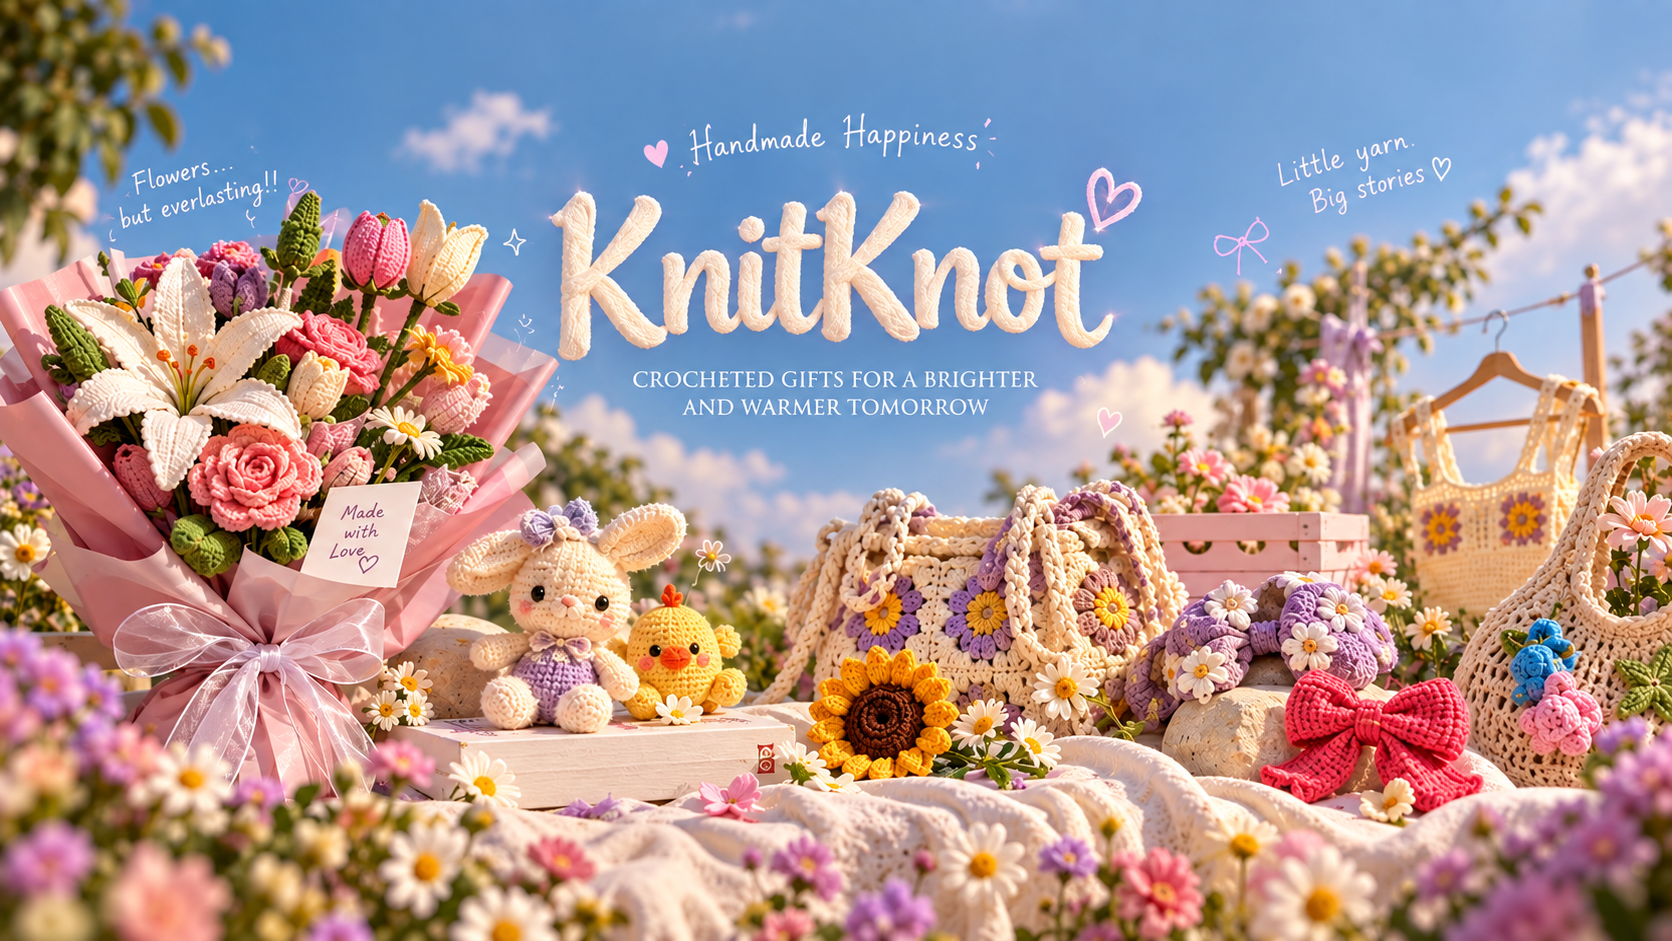
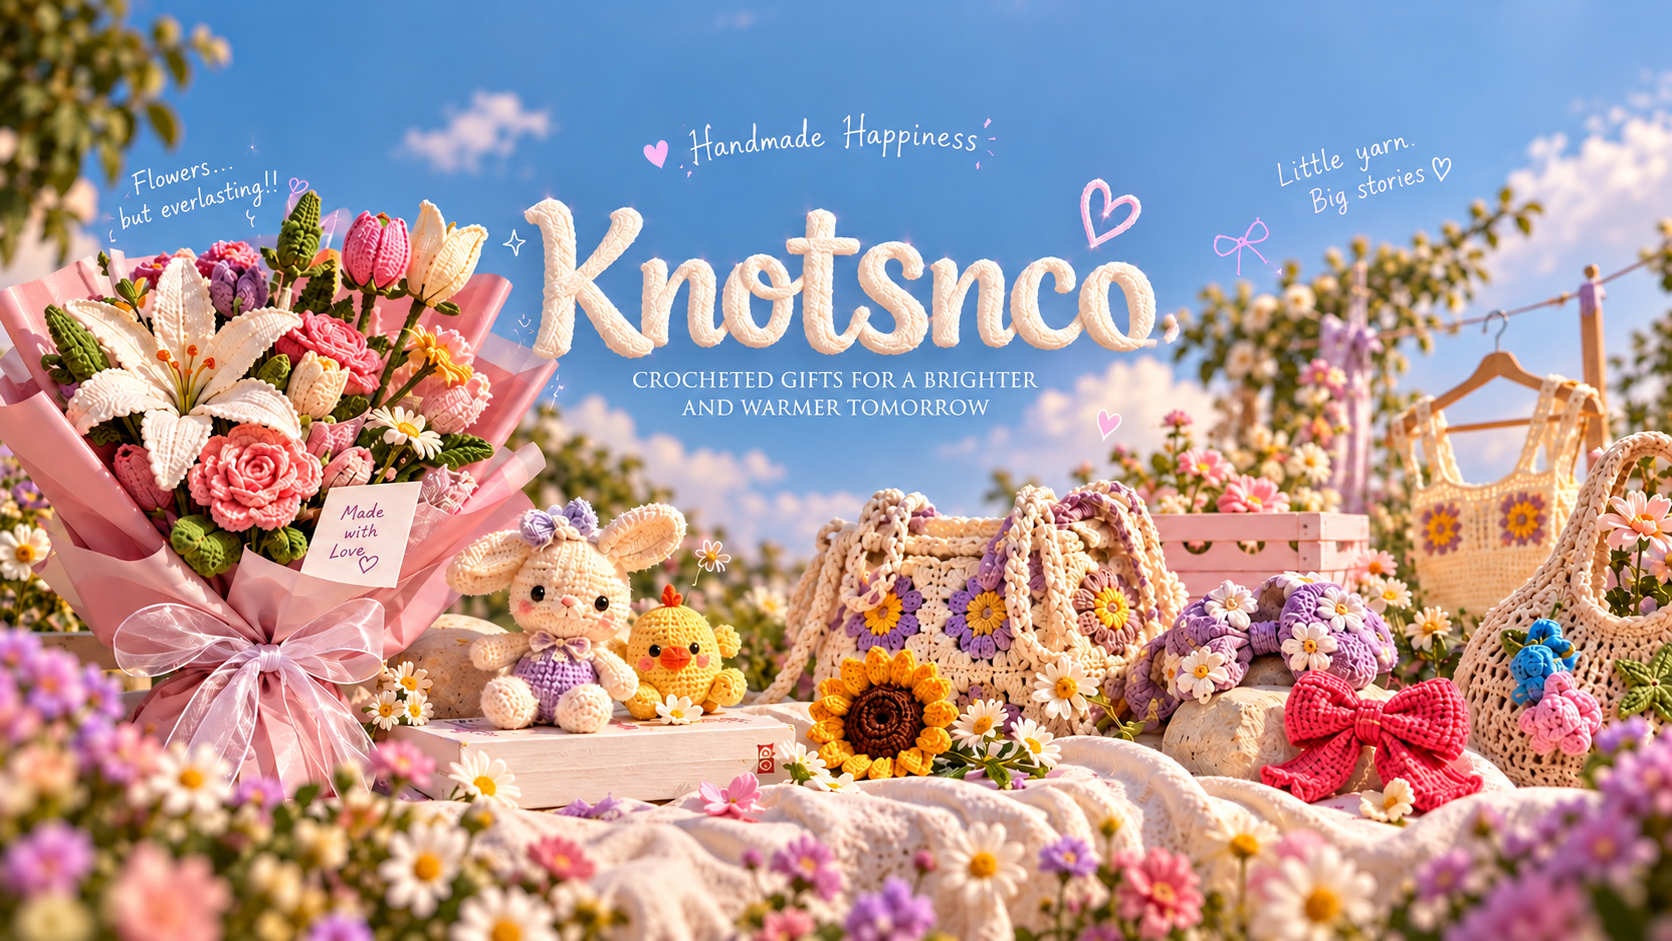
feat(branding): update brand name to Knotsnco and apply new landing page artwork

diff --git a/src/components/Footer.tsx b/src/components/Footer.tsx
@@ -32,7 +32,7 @@ export const Footer: React.FC<FooterProps> = ({ onSelectCategory }) => {
               className="text-[#4a044e] font-serif text-2xl sm:text-4xl md:text-5xl font-medium tracking-tight leading-[1.2] mb-3 sm:mb-4"
               style={{ fontFamily: "'Playfair Display', Georgia, serif" }}
             >
-              Level Up Your World with KnitKnot
+              Level Up Your World with Knotsnco
             </h3>
             <p className="text-[#5e1f66] text-xs sm:text-sm leading-relaxed max-w-md mb-6 sm:mb-8 font-medium">
               Subscribe to our newsletter for news, exclusive offers, and community events. Don't miss updates!
@@ -42,7 +42,7 @@ export const Footer: React.FC<FooterProps> = ({ onSelectCategory }) => {
             {subscribed ? (
               <div className="p-3 sm:p-3.5 rounded-2xl bg-white/70 border border-purple-300 text-[#4a044e] text-xs sm:text-sm font-semibold flex items-center gap-2 max-w-md shadow-sm">
                 <Check className="w-4 h-4 text-emerald-600 shrink-0" />
-                <span>Thank you! Welcome to the KnitKnot family.</span>
+                <span>Thank you! Welcome to the Knotsnco family.</span>
               </div>
             ) : (
               <form onSubmit={handleSubscribe} className="relative max-w-md w-full">
@@ -137,7 +137,7 @@ export const Footer: React.FC<FooterProps> = ({ onSelectCategory }) => {
 
         </div>
 
-        {/* Bottom Giant Brand Typography Spanning Full Width (White KnitKnot©) */}
+        {/* Bottom Giant Brand Typography Spanning Full Width (White Knotsnco©) */}
         <div className="w-full pt-6 sm:pt-8 border-t border-[#4a044e]/15 flex items-center justify-between overflow-hidden">
           <div className="w-full overflow-hidden">
             <h1 
@@ -147,7 +147,7 @@ export const Footer: React.FC<FooterProps> = ({ onSelectCategory }) => {
                 fontSize: 'clamp(2.35rem, 13vw, 17.5rem)',
               }}
             >
-              KnitKnot©
+              Knotsnco©
             </h1>
           </div>
         </div>

diff --git a/src/components/AccountModal.tsx b/src/components/AccountModal.tsx
@@ -31,7 +31,7 @@ export const AccountModal: React.FC<AccountModalProps> = ({ isOpen, onClose }) =
             <div className="w-8 h-8 rounded-full bg-purple-500/20 flex items-center justify-center text-pink-300">
               <User className="w-4 h-4" />
             </div>
-            <h3 className="text-base sm:text-lg font-bold">KnitKnot VIP Club</h3>
+            <h3 className="text-base sm:text-lg font-bold">Knotsnco VIP Club</h3>
           </div>
           <button
             onClick={onClose}
@@ -48,7 +48,7 @@ export const AccountModal: React.FC<AccountModalProps> = ({ isOpen, onClose }) =
             </div>
             <h4 className="text-lg font-bold text-white mb-1">Welcome back, {email.split('@')[0]}!</h4>
             <p className="text-xs text-stone-400 mb-6">
-              You have 150 KnitKnot Yarn Points (₹150 value) ready to use on your next order.
+              You have 150 Knotsnco Yarn Points (₹150 value) ready to use on your next order.
             </p>
 
             <div className="grid grid-cols-2 gap-3 text-left mb-6">
@@ -128,7 +128,7 @@ export const AccountModal: React.FC<AccountModalProps> = ({ isOpen, onClose }) =
                 type="submit"
                 className="w-full mt-2 bg-[#edd2f7] hover:bg-[#e4c2f1] text-[#4a044e] font-extrabold text-xs py-2.5 rounded-full shadow-lg transition-all flex items-center justify-center gap-1.5"
               >
-                <span>{tab === 'signin' ? 'Sign In to KnitKnot' : 'Join VIP Club (+100 Pts)'}</span>
+                <span>{tab === 'signin' ? 'Sign In to Knotsnco' : 'Join VIP Club (+100 Pts)'}</span>
                 <ArrowRight className="w-3.5 h-3.5" />
               </button>
             </form>

diff --git a/index.html b/index.html
@@ -3,11 +3,11 @@
   <head>
     <meta charset="UTF-8" />
     <meta name="viewport" content="width=device-width, initial-scale=1.0" />
-    <title>KnitKnot | Crocheted Gifts for a Brighter & Warmer Tomorrow</title>
-    <meta name="description" content="Handmade Happiness - Discover everlasting crochet flowers, adorable amigurumi plushies, floral tote bags, and custom bouquets handcrafted with love." />
-    <meta property="og:title" content="KnitKnot | Crocheted Gifts & Handmade Happiness" />
-    <meta property="og:description" content="Everlasting flowers, amigurumi companions, and handcrafted crochet fashion made with love." />
-    <meta property="og:image" content="/knitknot-landing.png" />
+    <title>Knotsnco | Crocheted Gifts for a Brighter & Warmer Tomorrow</title>
+    <meta name="description" content="Handmade Happiness - Discover everlasting crochet flowers, adorable amigurumi plushies, floral tote bags, and custom bouquets handcrafted with love by Knotsnco." />
+    <meta property="og:title" content="Knotsnco | Crocheted Gifts & Handmade Happiness" />
+    <meta property="og:description" content="Everlasting flowers, amigurumi companions, and handcrafted crochet fashion made with love by Knotsnco." />
+    <meta property="og:image" content="/knotsnco-landing.png" />
     <meta property="og:type" content="website" />
     <meta name="twitter:card" content="summary_large_image" />
     <link rel="preconnect" href="https://fonts.googleapis.com">

diff --git a/src/components/HeroSection.tsx b/src/components/HeroSection.tsx
@@ -230,14 +230,14 @@ export const HeroSection: React.FC<HeroSectionProps> = ({
         {/* Mobile Vertical 9:16 Artwork (Fully visible, centered, zero letters cropped!) */}
         <img
           src={landingImageMobile || '/knitknot-landing-mobile.jpg'}
-          alt="KnitKnot - Crocheted Gifts for a Brighter and Warmer Tomorrow"
+          alt="Knotsnco - Crocheted Gifts for a Brighter and Warmer Tomorrow"
           className="sm:hidden w-full h-full object-cover object-top pointer-events-none select-none"
         />
         
         {/* Desktop Landscape 16:9 Artwork */}
         <img
-          src={landingImage || '/knitknot-landing.png'}
-          alt="KnitKnot - Crocheted Gifts for a Brighter and Warmer Tomorrow"
+          src={landingImage || '/knotsnco-landing.png'}
+          alt="Knotsnco - Crocheted Gifts for a Brighter and Warmer Tomorrow"
           className="hidden sm:block w-full h-full object-cover object-center pointer-events-none select-none"
         />
 

diff --git a/src/App.tsx b/src/App.tsx
@@ -146,7 +146,7 @@ export default function App() {
   return (
     <div className="min-h-screen w-full bg-[#0a080f] text-white flex flex-col justify-start relative overflow-x-hidden selection:bg-[#edd2f7] selection:text-[#4a044e]">
       
-      {/* 1. STICKY KNITKNOT NAVBAR WITH LOGO & ALL CONTROLS */}
+      {/* 1. STICKY KNOTSNCO NAVBAR WITH LOGO & ALL CONTROLS */}
       <KnitKnotNavbar
         activeTab={activeTab}
         onTabChange={handleTabChange}
@@ -157,7 +157,7 @@ export default function App() {
         onShopNowClick={() => handleTabChange('All Products')}
       />
 
-      {/* 2. FULL LANDING PAGE HERO WITH THE KNITKNOT LANDING IMAGE */}
+      {/* 2. FULL LANDING PAGE HERO WITH THE KNOTSNCO LANDING IMAGE */}
       <HeroSection
         onExploreClick={() => {
           const el = document.getElementById('most-wanted-section');

diff --git a/src/components/KnitKnotNavbar.tsx b/src/components/KnitKnotNavbar.tsx
@@ -134,7 +134,7 @@ export const KnitKnotNavbar: React.FC<KnitKnotNavbarProps> = ({
         >
           <div className="flex items-center">
             <span className="text-2xl sm:text-[30px] lg:text-[34px] font-extrabold tracking-tight text-white font-['Nunito',sans-serif] leading-none drop-shadow-sm">
-              KnitKnot
+              Knotsnco
             </span>
             {/* Handcrafted Heart Loop Doodle with Sparkle */}
             <span className="inline-flex items-center ml-1 text-white relative">

diff --git a/src/components/CraftsmanshipSection.tsx b/src/components/CraftsmanshipSection.tsx
@@ -36,7 +36,7 @@ export const CraftsmanshipSection: React.FC = () => {
           Handmade Happiness in Every Loop
         </h2>
         <p className="text-sm sm:text-base text-stone-400 mt-2">
-          KnitKnot started as a humble dream: to replace temporary disposable gifts with timeless, huggable pieces of art that warm your home.
+          Knotsnco started as a humble dream: to replace temporary disposable gifts with timeless, huggable pieces of art that warm your home.
         </p>
       </div>
 

diff --git a/src/components/ReviewsSection.tsx b/src/components/ReviewsSection.tsx
@@ -66,7 +66,7 @@ export const ReviewsSection: React.FC = () => {
               Loved By Thousands of Gifters
             </h2>
             <p className="text-sm sm:text-base text-stone-500 mt-2 max-w-xl">
-              Real photos and genuine love notes from happy KnitKnot homes around the globe. Every stitch made with love.
+              Real photos and genuine love notes from happy Knotsnco homes around the globe. Every stitch made with love.
             </p>
           </div>
 

diff --git a/src/components/FeaturedEditorialSection.tsx b/src/components/FeaturedEditorialSection.tsx
@@ -71,7 +71,7 @@ export const FeaturedEditorialSection: React.FC<FeaturedEditorialSectionProps> =
 
           <div className="flex items-center gap-1.5 sm:gap-2 text-white/90 text-[11px] sm:text-sm font-medium tracking-wide">
             <Sparkles className="w-3.5 h-3.5 sm:w-4 sm:h-4 text-white" />
-            <span>KnitKnot Studio</span>
+            <span>Knotsnco Studio</span>
           </div>
         </div>
 

diff --git a/README.md b/README.md
@@ -1,4 +1,4 @@
-# KnitKnot 🧶
+# Knotsnco 🧶
 
 An artisanal crochet & handcrafted knitwear e-commerce storefront web application built with React 19, TypeScript, Vite, and Tailwind CSS.
 
